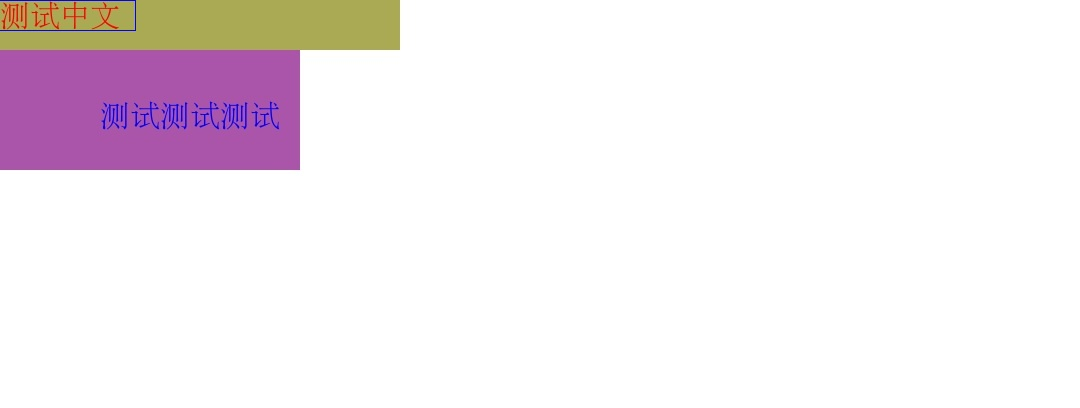
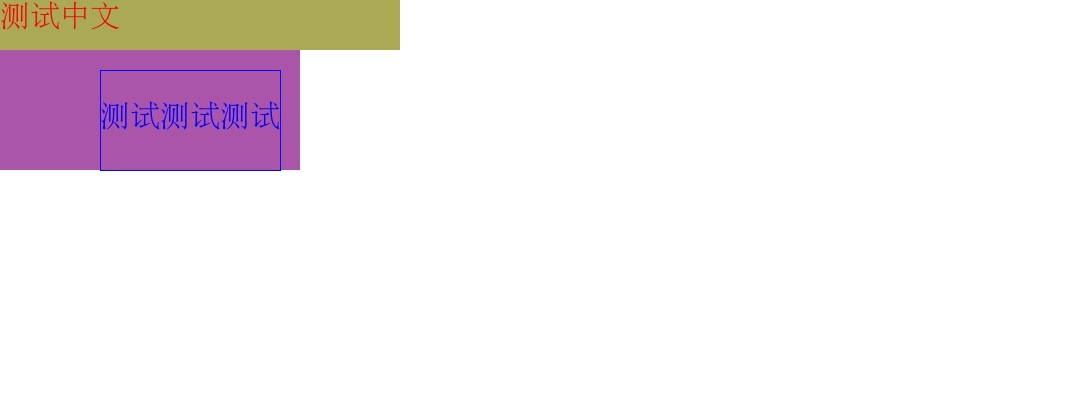
123

diff --git a/simpleHtmlGenerator/htmlobj.py b/simpleHtmlGenerator/htmlobj.py
@@ -2,6 +2,31 @@ import os
 import sys
 import codecs
 from simpleHtmlGenerator.utils.string_count import str_count
+from simpleHtmlGenerator.utils.add_px import keyforpx
+
+class Layout:
+    def __init__(self, x1, y1, x2, y2):
+        self.x1, self.y1, self.x2, self.y2 = x1, y1, x2, y2
+
+    def __add__(self, other):
+        return Layout(self.x1+other.x1, self.y1+other.y1, self.x1+other.x2, self.y1+other.y2)
+
+    def __str__(self):
+        return "(%d, %d, %d, %d)" % (self.x1, self.y1, self.x2, self.y2)
+
+    def make_contain(self, layout):
+        """
+            make self contains second layout
+        """
+        self.x1 = min(self.x1, layout.x1)
+        self.x2 = max(self.x2, layout.x2)
+        self.y1 = min(self.y1, layout.y1)
+        self.y2 = max(self.y2, layout.y2)
+
+    @classmethod
+    def from_xywh(cls, x, y, w, h):
+        return Layout(x, y, x+w, y+h)
+
 
 
 class HtmlObj:
@@ -10,47 +35,36 @@ class HtmlObj:
         self.dic = {}
         self.parent = None
         self.children = None  # will treat as child
-        self.cached_layout = None
+        self._layout = Layout(0, 0, 0, 0)
 
     def add(self, child):
         self.children = child
         child.parent = self
 
+    @property
+    def layout(self):
+        return self._layout
 
+    def update_layout(self, start_x, start_y):
+        raise NotImplementedError()
 
-    def get_world_bbox(self, child_ref=None, bbox=None):
-        if bbox is None:
-            try:
-                bbox = self.bbox
-            except:
-                return None
+    def get_world_layout(self, layout=None):
+        if layout is None:
+            layout = self.layout
+        else:
+            layout = self.layout + layout
+
+        layout = layout + self.layout
+
         if self.parent:
-            bbox = self.parent.get_world_bbox(bbox)
+            layout = self.parent.get_world_layout(layout)
 
-        left, top = 0, 0
-        if 'margin-top' in self.dic:
-            top += self.dic['margin-top']
-        if 'padding-top' in self.dic:
-            top += self.dic['padding-top']
-        if 'margin-left' in self.dic:
-            left += self.dic['margin-left']
-        if 'padding-left' in self.dic:
-            left += self.dic['padding-left']
-        bbox = (bbox[0] + left, bbox[1] + top, bbox[2] + left, bbox[3] + top)
-        return bbox
+        return layout
 
     def get_css(self):
         raise NotImplementedError()
 
     def get_html(self):
-        raise NotImplementedError()
-
-    @property
-    def height(self):
-        raise NotImplementedError()
-
-    @property
-    def bbox(self):
         raise NotImplementedError()
 
     def destroy(self):
@@ -59,18 +73,9 @@ class HtmlObj:
         if self.children:
             self.children = None
 
-
-def keyforpx(key, val):
-    val = str(val)
-    if 'size' in key or 'margin' in key or 'padding' in key or 'width' in key or 'height' in key:
-        val = str(val) + 'px'
-    return val
-
-
 """
     一个块 有背景色 内含一个text
 """
-
 
 class DivObj(HtmlObj):
     def __init__(self, index, width, height, color):
@@ -79,18 +84,21 @@ class DivObj(HtmlObj):
         self.dic['height'] = height
         self.dic['background-color'] = color
         self.index = index
+        self.children = []
 
-    def add(self, text):
-        super().add(text)
-        if text.height > self.dic['height']:
-            self.dic['height'] = text.height
+    @property
+    def text_item(self):
+        return None if len(self.children) == 0 else self.children[0]
+
+    def add(self, text_item):
+        if len(self.children) == 0:
+            self.children.append(text_item)
+        else:
+            self.children[0] = text_item
 
     def set_padding(self, left, top):
         """
             内边界
-        :param left:
-        :param top:
-        :return:
         """
         self.dic['padding-left'] = int(left)
         self.dic['padding-top'] = int(top)
@@ -98,18 +106,27 @@ class DivObj(HtmlObj):
     def set_margin(self, left, top):
         """
             外边界
-        :param left:
-        :param top:
-        :return:
         """
         self.dic['margin-left'] = int(left)
         self.dic['margin-top'] = int(top)
 
-    @property
-    def height(self):
-        if 'margin-left' in self.dic:
-            return self.dic['height'] + self.dic['margin-top']
-        return self.dic['height']
+    def update_layout(self, start_x, start_y):
+        top = start_y
+        if 'margin_top' in self.dic:
+            top = top + self.dic['margin_top']
+        left = start_x
+        if 'margin_left' in self.dic:
+            left = left + self.dic['margin_left']
+
+        self._layout = Layout.from_xywh(left, top, self.dic['width'], self.dic['height'])
+
+        if len(self.children) > 0:
+            textObj = self.children[0]
+            padding_top = 0 if 'padding-top' not in self.dic else self.dic['padding-top']
+            padding_left = 0 if 'padding-left' not in self.dic else self.dic['padding-left']
+            textObj.update_layout(padding_left, padding_top)
+            text_layout = textObj.layout
+            self.layout.make_contain(text_layout)
 
     def get_css(self):
         css = "div.a%d{" % self.index
@@ -121,17 +138,20 @@ class DivObj(HtmlObj):
         css += "}\n"
 
         if not self.children is None:
-            css += self.children.get_css()
+            css += self.text_item.get_css()
 
         return css
 
     def get_html(self):
         if not self.children is None:
-            text_heml = self.children.get_html()
+            text_heml = self.text_item.get_html()
             html = "<div class='a%d'>%s</div>\n" % (self.index, text_heml)
         else:
             html = "<div class='a%d'></div>\n"
         return html
+
+    def __str__(self):
+        return 'DivObj: [index: %d, layout: %s]' % (self.index, str(self.layout))
 
 
 """
@@ -148,6 +168,9 @@ class TextObj(HtmlObj):
         self.index = index
         self.text = text
 
+    def update_layout(self, start_x, start_y):
+        self._layout = Layout.from_xywh(start_x, start_y, self.width, self.height)
+
     @property
     def height(self):
         return self.dic['font-size']
@@ -157,11 +180,6 @@ class TextObj(HtmlObj):
         num_ch, num_other = str_count(self.text)
         num = 1 * num_ch + 0.5 * num_other
         return int(self.dic['font-size'] * num)
-
-    @property
-    def bbox(self):
-        expand = int(self.dic['font-size'] / 2)
-        return (-expand, 0, self.width + expand, self.height)
 
     def get_css(self):
         css = "p.a%d{" % self.index
@@ -192,31 +210,23 @@ class PageObj(HtmlObj):
                     'height': body_height,
                     'margin-left': '0px',
                     'margin-top': '0px'}
+        self.children = []
 
     def add_Obj(self, obj: HtmlObj):
         self.children.append(obj)
 
-    @property
-    def height(self):
-        height = [obj.height for obj in self.children]
-        height = sum(height)
-        return height
-
-    def get_world_bbox(self, child=None, bbox=None):
-        """
-        consider multi div in the page sorted one by one
-        :param child:
-        :param bbox:
-        :return:
-        """
-        heights = [div.height for div in self.children]
-
+    def update_layout(self, start_x=0, start_y=0):
+        y_anchor = 0
+        for child in self.children:
+            child.update_layout(0, y_anchor)
+            y_anchor = child.layout.y2
+        self._layout = Layout.from_xywh(0, 0, self.dic['width'], y_anchor)
 
     def __str__(self):
         html_str = str(template)
-        css_str_list = [obj.get_css() for obj in self.objs]
+        css_str_list = [obj.get_css() for obj in self.children]
         css_str = "".join(css_str_list)
-        body_str_list = [obj.get_html() for obj in self.objs]
+        body_str_list = [obj.get_html() for obj in self.children]
         body_str = "".join(body_str_list)
 
         html_str = str.replace(html_str, "css_token", css_str)
@@ -224,19 +234,25 @@ class PageObj(HtmlObj):
         return html_str
 
 
+
 if __name__ == "__main__":
     print("test....")
+    html = PageObj(1080, 1920)
+
     divObj1 = DivObj(1, width=400, height=50, color='#aaaa55')
-    # divObj1.set_padding(100, 10)
     textObj1 = TextObj(1, size=30, font="黑体", text="测试中文", color="#ff0000")
+    divObj1.add(textObj1)
+    html.add_Obj(divObj1)
+
     divObj2 = DivObj(2, width=200, height=100, color='#aa55aa')
     textObj2 = TextObj(2, size=30, font="黑体", text="测试测试测试", color="#0000ff")
     divObj2.set_padding(100, 20)
-    divObj1.add(textObj1)
     divObj2.add(textObj2)
-    html = PageObj(1080, 1920)
-    html.add_Obj(divObj1)
     html.add_Obj(divObj2)
-    print(textObj1.get_world_bbox())
+
+    html.update_layout()
+
+    print(textObj1.get_world_layout())
+    print(textObj2.get_world_layout())
     with codecs.open("../result.html", "w", encoding='utf-8') as f:
         f.write(str(html))

diff --git a/simpleHtmlGenerator/utils/add_px.py b/simpleHtmlGenerator/utils/add_px.py
@@ -1,0 +1,10 @@
+"""
+    some css arg need px unit
+    eg: width: 100px
+"""
+def keyforpx(key, val):
+    val = str(val)
+    if 'size' in key or 'margin' in key or 'padding' in key or 'width' in key or 'height' in key:
+        val = str(val) + 'px'
+    return val
+

diff --git a/test.py b/test.py
@@ -5,5 +5,5 @@ imgkit.from_file("result.html", "1.jpg")
 
 img = cv2.imread("1.jpg")
 
-img = cv2.rectangle(img, (-15, 0), (135, 30), (255, 0, 0), 1)
+img = cv2.rectangle(img, (100, 70), (280, 170), (255, 0, 0), 1)
 cv2.imwrite("1.jpg", img)

diff --git a/test2.py b/test2.py
@@ -1,3 +1,6 @@
 
-key = 'margin-left'
-print('margin' in key)
+a = []
+
+a[0] = 1
+
+print(a)
